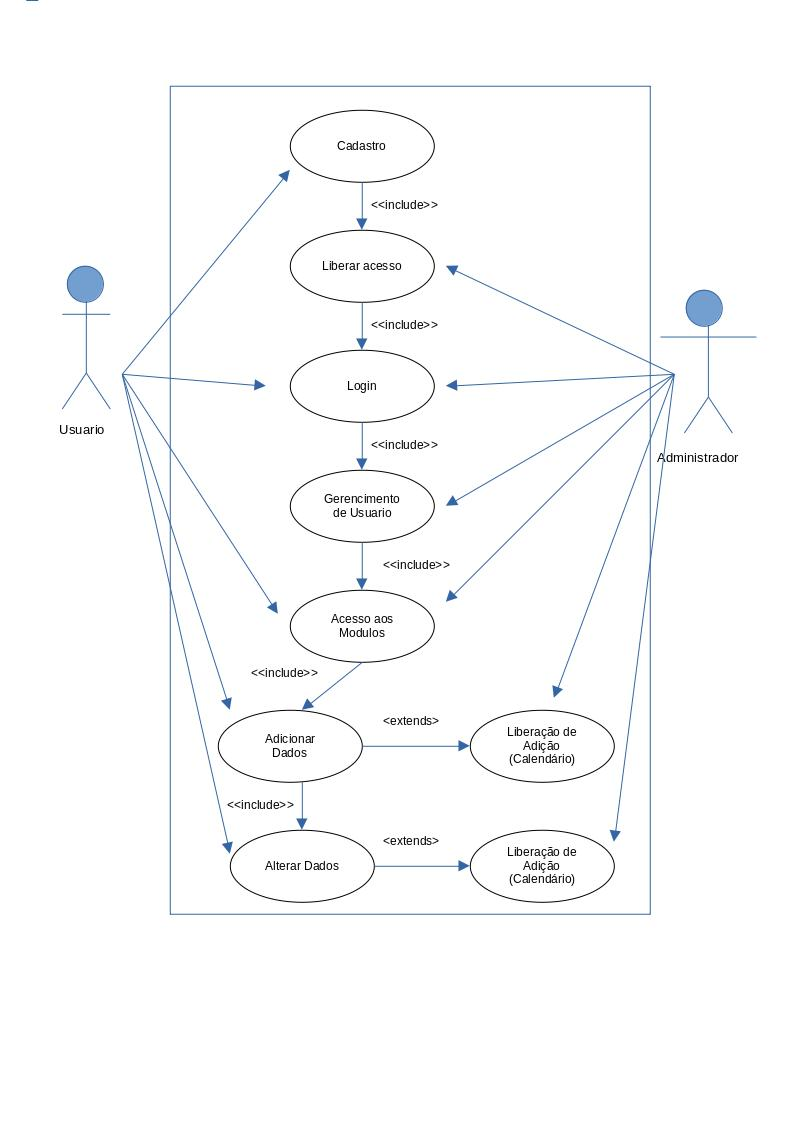
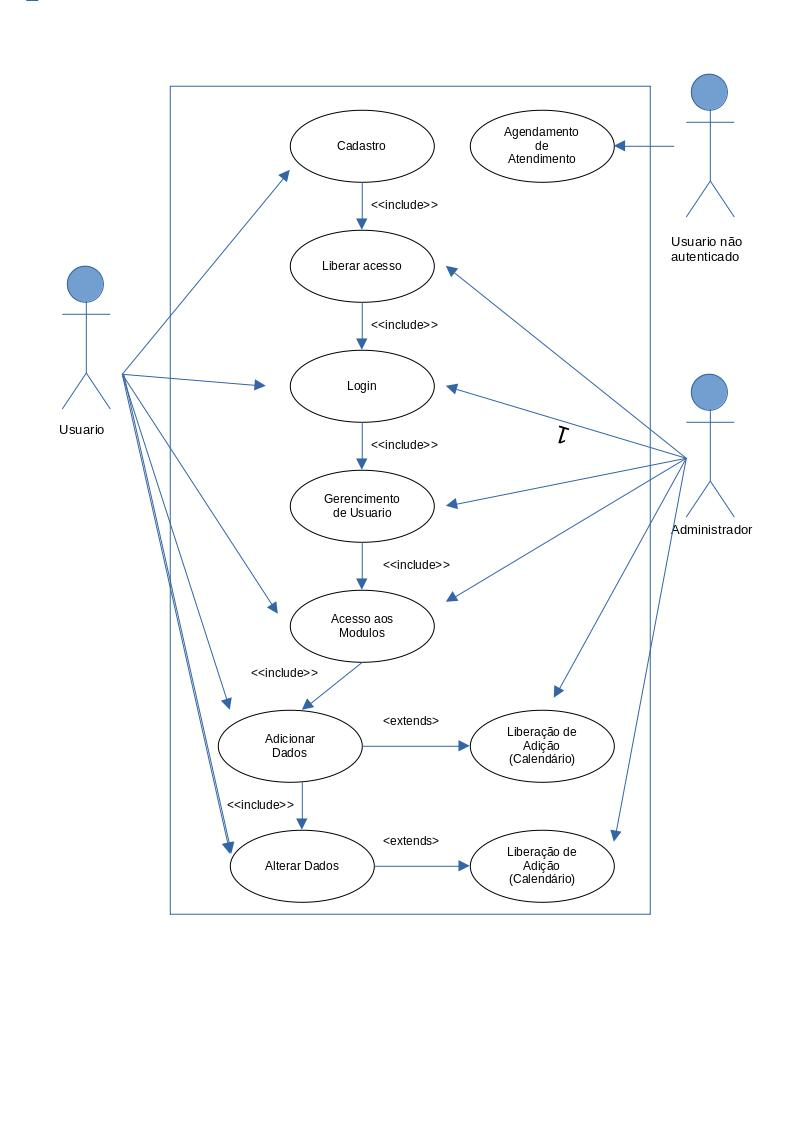
Adiconado informações para validação com o Usuario

diff --git a/README.md b/README.md
@@ -7,7 +7,9 @@
  - [Requisitos Não Funcionais](#requisitos-não-funcionais)
  - [Escopo do Projeto](#escopo-do-projeto)
  - [Diagrama de Caso de Uso](#diagrama-de-caso-de-uso)
- - [Tecnologias a serem utilizadas](#tecnolgoias-a-serem-utilizadas)
+ - [Tecnologias a serem utilizadas](#tecnologias-a-serem-utilizadas)
+ - [Modulos do Sistema](#modulos-do-sistema)
+ - [Permissões de Usuários](#permissões-de-usuários)
 
 ### Resumo
 ###### [Voltar ao topo](#sistema-de-gerenciamento-paroquial)
@@ -40,7 +42,7 @@ Com isso, ocorre os seguintes problemas:
 
 ### Perfil de Usuários
 ###### [Voltar ao topo](#sistema-de-gerenciamento-paroquial)
-Os usuáios são membros do Conselho Pastoral Paroquial, casais de apoio que ajudam na lojinha paroquial e catequistas. Sao pessoas que tem de 16 a 60 anos. Alguns utilizam desktop e notebooks, todos utilizam celulares e todos possuem acesso a internet, seja no celular via 4G/5G ou via internet cabeada (residencial).
+Os usuários são membros do Conselho Pastoral Paroquial, casais de apoio que ajudam na lojinha paroquial e catequistas. Sao pessoas que tem de 16 a 60 anos. Alguns utilizam desktop e notebooks, todos utilizam celulares e todos possuem acesso a internet, seja no celular via 4G/5G ou via internet cabeada (residencial).
 
 ### Requisitos Funcionais
 ###### [Voltar ao topo](#sistema-de-gerenciamento-paroquial)
@@ -59,6 +61,7 @@ Os usuáios são membros do Conselho Pastoral Paroquial, casais de apoio que aju
 12 - O sistema deve notificar o Administrador sobre alterações a serem confirmadas, assim como inclusão de dados a serem confirmadors e liberação de cadastro a serem confirmadas.
 13 - O sistema não deve permitir cadastro de usuários com mesmo e-mail.
 14 - O sistema deve permitir a impressão de relatórios por módulo pertinentens a eles.
+15 - O sistema deverá permitir que o agendamento aberto de atendimentos não tenha restrição de usuário, sendo aberta apenas ela para agendamento.
 
 ### Requisitos Não Funcionais
 ###### [Voltar ao topo](#sistema-de-gerenciamento-paroquial)
@@ -70,6 +73,7 @@ Os usuáios são membros do Conselho Pastoral Paroquial, casais de apoio que aju
 6 - O sistema deve notificar o usuário faltar com algum dado a ser preenchido, a informação deve ser clara.
 7 - O sistema deve notificar quando o sistema não estiver funcionando.
 8 - O sistema deve notificar quando há um erro com informações claras.
+9 - O sistema deve notificar quando há um nobo agendamento na agenda ao Administrador.
 
 
 ### Escopo do Projeto
@@ -93,10 +97,81 @@ Não Inclui:
 
  ![Diagrama de Caso de Uso](/img-md/diagrama_caso_de_uso.jpg)
 
-### Tecnolgoias a serem utilizadas
+### Tecnologias a serem utilizadas
 ###### [Voltar ao topo](#sistema-de-gerenciamento-paroquial)
 
 Backend : Python utilizando flaks para criação de rotas
-Frontend : HTML, CSS utilizando Tailwind CSS para estilização, JavaScript para interação;
+Frontend : HTML, CSS utilizando Tailwind CSS para estilização e React com Vite para interação;
 Banco de Dados : Postgree no Supabase utilizando o JWT (JSON Web Token) e RLS (Row Level Security) que a plataforma disponibiliza
-Versionamento de código : GitHUb
+Versionamento de código : GitHub
+
+### Modulos do Sistema
+###### [Voltar ao topo](#sistema-de-gerenciamento-paroquial)
+O sistema contará com os seguintes modulos:
+- Calendario Paroquial : um calendário compartilhado.
+- Gerenciamento de Usuario : para gerenciar os usuarios do sistema.
+- Perfil : Para possivel alteração de dados pelo usuario.
+- Catequese : para gerenciamento da catequese como turmas e alunos.
+- Loja Paroquial : para gerenciamento da loja paroquial como produtos, vendas e relátorios de vendas.
+- Notificações : para notificações ao Adminsitrador.
+- Atendimento : para gerenciamento dos atendimentos na paróquia.
+- Gerenciamento de Locais : para gerenciamento dos locais que serão disponibilizados na paróquia.
+
+
+### Permissões de Usuários
+###### [Voltar ao topo](#sistema-de-gerenciamento-paroquial)
+
+> Administrador
+- Alterar dados de usuarios e seu proprio perfil.
+- Poderá alterar cargos (menos o cargo de Adminstrador).
+- Poderá aceitar ou revogar solicitações de novos cadastros.
+- Poderá aceitar ou revogar solicitações de novos eventos.
+- Poderá aceitar ou revogar alterações de eventos.
+- Poderá aceitar ou revogar exclusão de eventos.
+- Poderá acessar todos os módulos.
+- Poderá adicionar dados aos módulos.
+- Poderá excluir usuários.
+
+> Gerenciador
+- Alterar e-mail de usuários.
+- Poderá dar cargos aos usuaríos (menos o cargo de Administrador e Gerenciador).
+- Poderá aceitar ou revogar solicitações de novos cadastros.
+- Poderá acessar todos os módulos.
+- Poderá adicionar dados aos módulos.
+
+> Coordenador de Catequese (Coordenador e vice)
+- Alterar dados de perfil como e-mail e telefone.
+- Poderá acessar os módulos Calendário Paroquial, Perfil e Catequese.
+- Poderá adicionar dados aos módulos. (Após aceitação ou revogação do Administrador).
+- Poderá alterar dados que o usuário com o cargo adicionou aos módulos. (Após aceitação ou revogação do Administrador).
+- Poderá excluir dados que o usuário com o cargo adicionou aos módulos. (Após aceitação ou revogação do Administrador).
+
+> Catequista
+- Alterar dados de perfim como e-mail e telefone.
+- Poderá acessar os módulos Perfil e Catequese.
+- Poderá adicionar dados aos módulos.
+- Poderá alterar dados que o usuário com o cargo adicionou aos módulos.
+
+> Coordenador Loja Paroquial (Coordenador e Vice)
+- Alterar dados de perfil como e-mail e telefone.
+- Poderá acessar os módulos Perfil e Loja Paroquial.
+- Poderá adicionar dados aos módulos.
+- Poderá alterar dados que o usuário com o cargo adicionou aos módulos.
+- Poderá excluir dados que o usuário com o cargo adicionou aos módulos.
+- Poderá fazer fechamento de caixa.
+
+> Vendedor Loja Paroquial
+- Alterar dados de perfil como e-mail e telefone.
+- Poderá acessar os módulos Perfil e Loja Paroquial.
+- Poderá fazer fechamento de caixa.
+
+> Coordenador (Pastoral, Movimentos e Comunidades [Coordenador e Vice])
+- Alterar dados de perfil como e-mail e telefone.
+- Poderá acessar os módulos Calendário Paroquial e Perfil.
+- Poderá adicionar dados aos módulos.
+- Poderá alterar dados que o usuário com o cargo adicionou ao módulo. (Após aceitação ou revogação do Administrador)
+- Poderá excluir dados que o usuário com o cargo adicionou ao módulo. (Após aceitação ou revogação do Administrador)
+
+> Convidado
+- Acesso ao link de agendamento de atendimento
+
